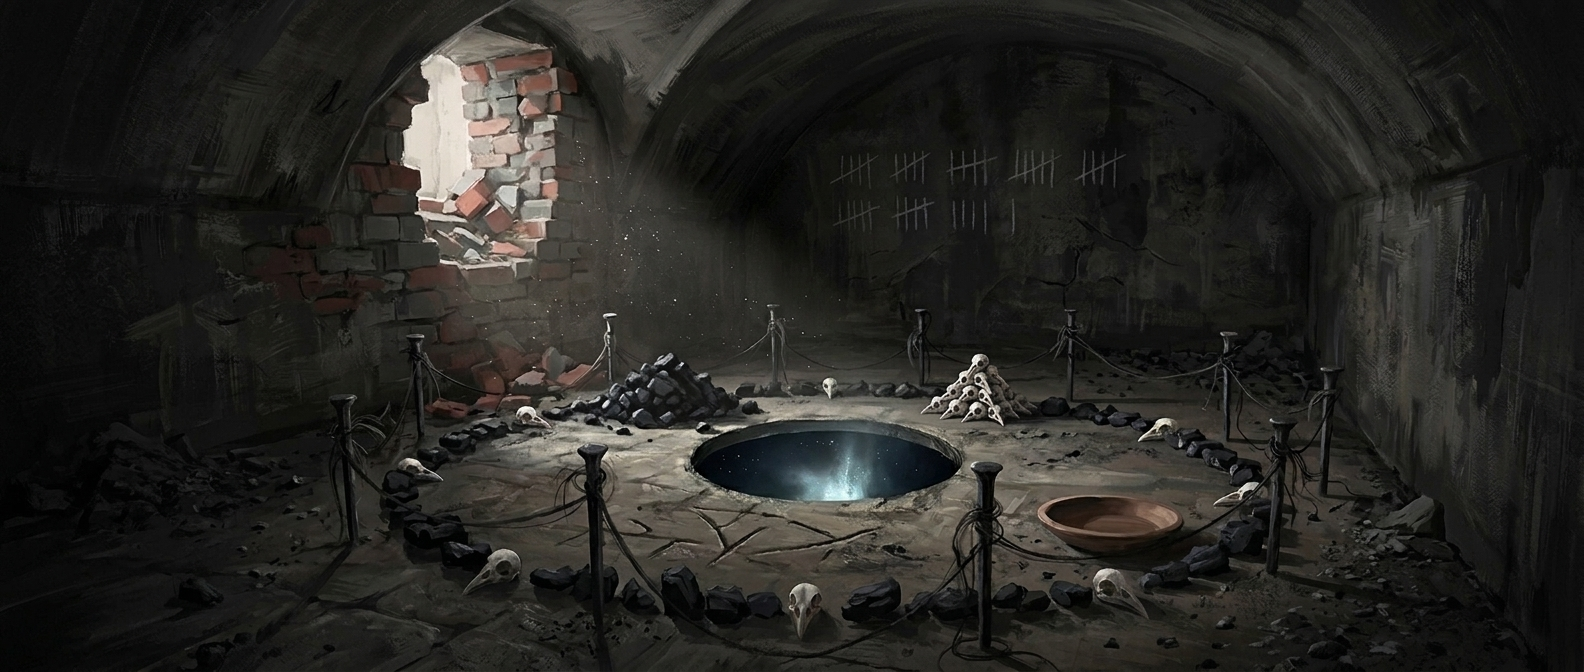
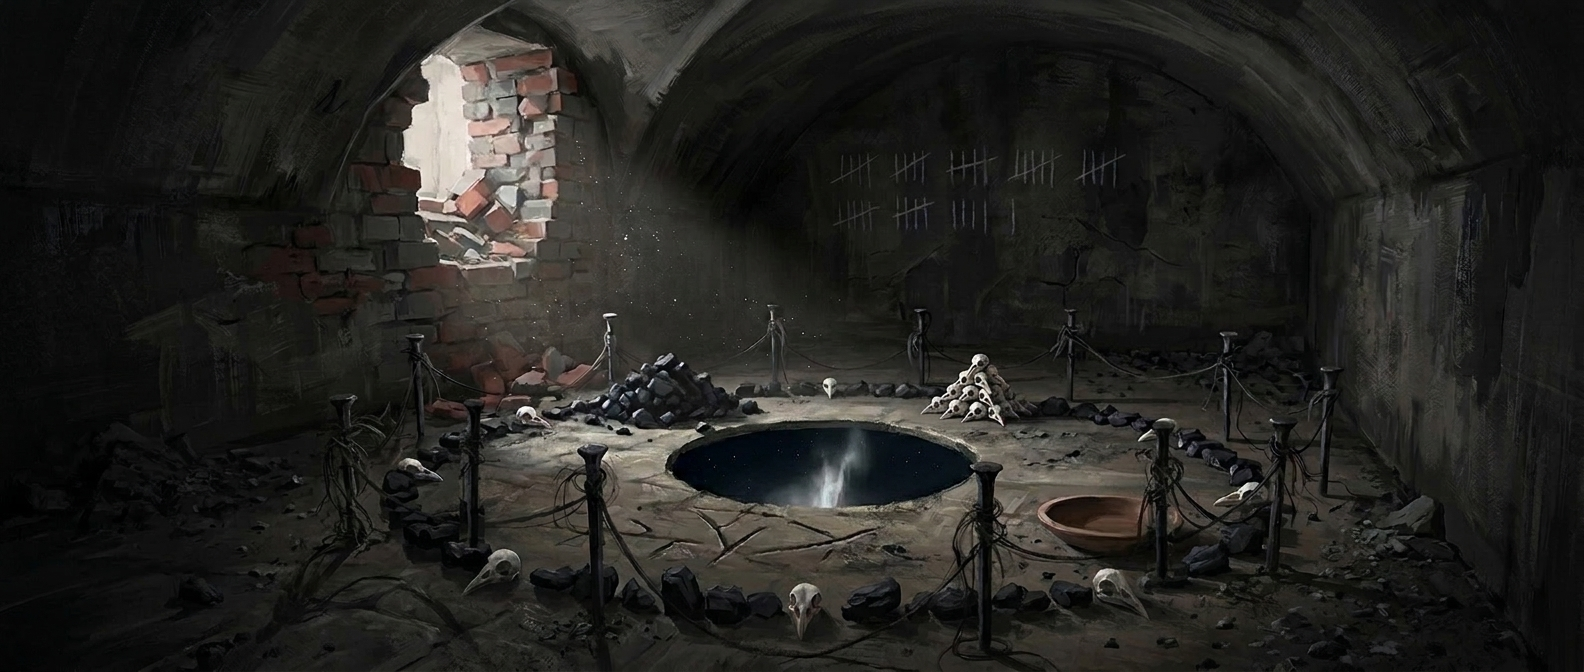
Ritualraum: genau dreizehn Nägel im Bild (Tag, Spuk, gebrochen), Nägel als unterarmlange Pflöcke beschrieben, neue Nahaufnahme ding-naegel, Tonschale wird ausgekippt statt umgestoßen

diff --git a/tools/kandidaten.js b/tools/kandidaten.js
@@ -268,6 +268,16 @@ window.KANDIDATEN = [
     "vorlage": null
   },
   {
+    "name": "ding-kalender_kraehe",
+    "titel": "Kalender der Krähe",
+    "prompt": "Kreidestriche auf einer rußigen, schwarzen Gewölbewand: Reihen von Strichen in Blöcken, daneben eine Kreideskizze eines Kreises mit vier kleinen Sonnenzeichen und Ziffern, darunter eine frischere, weißere Reihe einzelner Striche und ein ausgemalter Kreis, Taschenlampenlicht von der Seite – realistisches Foto eines echten Dokuments bzw. alten Fotos, Gebrauchsspuren, natürliches Licht, Schrift nur angedeutet und unleserlich",
+    "kandidaten": [
+      "ding-kalender_kraehe-1.jpg"
+    ],
+    "gewaehlt": "ding-kalender_kraehe.jpg",
+    "vorlage": null
+  },
+  {
     "name": "ding-kinderbuch",
     "titel": "Kinderbuch „Geheimschriften“",
     "prompt": "Altes Kinderbuch von 1898 mit Goldschnitt, aufgeschlagen auf einer Seite mit einem Kupferstich: Kinder halten ein Blatt über eine Kerzenflamme, auf dem braune Schrift erscheint, ein Eselsohr, am Rand eine zarte Bleistiftnotiz – realistisches Foto eines echten Dokuments bzw. alten Fotos, Gebrauchsspuren, natürliches Licht, Schrift nur angedeutet und unleserlich",
@@ -345,6 +355,16 @@ window.KANDIDATEN = [
       "ding-nachlass_karton-1.jpg"
     ],
     "gewaehlt": "ding-nachlass_karton.jpg",
+    "vorlage": null
+  },
+  {
+    "name": "ding-naegel",
+    "titel": "Dreizehn Nägel",
+    "prompt": "Nahaufnahme von drei, vier großen, grob geschmiedeten Eisenpflöcken (unterarmlang, daumendick, mit breitem Schmiedekopf) in einem Steinboden voller Kohlenstaub, um jeden ein einzelnes Haar oder ein Faden gewickelt (ein langes helles Haar, schwarzer Trauerflor, ein hellblauer Nähfaden, ein geblümter Stofffetzen), Taschenlampenlicht von der Seite – realistisches Foto eines echten Dokuments bzw. alten Fotos, Gebrauchsspuren, natürliches Licht, kein Text",
+    "kandidaten": [
+      "ding-naegel-1.jpg"
+    ],
+    "gewaehlt": "ding-naegel.jpg",
     "vorlage": null
   },
   {
@@ -435,6 +455,16 @@ window.KANDIDATEN = [
       "ding-ritzung-1.jpg"
     ],
     "gewaehlt": "ding-ritzung.jpg",
+    "vorlage": null
+  },
+  {
+    "name": "ding-salztopf",
+    "titel": "Salztopf",
+    "prompt": "Großer grauer Steinguttopf mit blauer Salzglasur auf einem Holzbord in einer alten Waschküche, randvoll mit grobem grauem Salz, daneben eine zerknitterte Papiertüte – realistisches Foto eines echten Dokuments bzw. alten Fotos, Gebrauchsspuren, natürliches Licht, in Blau auf dem Topf „SALZ“, sonst kein Text im Bild",
+    "kandidaten": [
+      "ding-salztopf-1.jpg"
+    ],
+    "gewaehlt": "ding-salztopf.jpg",
     "vorlage": null
   },
   {
@@ -565,6 +595,26 @@ window.KANDIDATEN = [
       "ding-vogelkiste-1.jpg"
     ],
     "gewaehlt": "ding-vogelkiste.jpg",
+    "vorlage": null
+  },
+  {
+    "name": "ding-vorschlaghammer",
+    "titel": "Vorschlaghammer",
+    "prompt": "Schwerer Vorschlaghammer mit dunklem Eschenstiel auf einer alten Werkbank, grauer Putzstaub am Kopf, daneben ein Stück Schneiderkreide – realistisches Foto eines echten Dokuments bzw. alten Fotos, Gebrauchsspuren, natürliches Licht, auf dem Stiel mit Kugelschreiber „H.-J. B.“, sonst kein Text im Bild",
+    "kandidaten": [
+      "ding-vorschlaghammer-1.jpg"
+    ],
+    "gewaehlt": "ding-vorschlaghammer.jpg",
+    "vorlage": null
+  },
+  {
+    "name": "ding-weinregale",
+    "titel": "Flasche „Für den Tag, an dem sie geht“",
+    "prompt": "Verstaubte Weinflasche quer vor anderen in einem Holzweinregal, um den Hals an einer Schnur ein kleines Pappschild mit schräger Handschrift, Kellerstaub – realistisches Foto eines echten Dokuments bzw. alten Fotos, Gebrauchsspuren, natürliches Licht, Schrift nur angedeutet und unleserlich",
+    "kandidaten": [
+      "ding-weinregale-1.jpg"
+    ],
+    "gewaehlt": "ding-weinregale.jpg",
     "vorlage": null
   },
   {
@@ -937,6 +987,36 @@ window.KANDIDATEN = [
     "vorlage": "raum-halle.jpg"
   },
   {
+    "name": "raum-heizungskeller",
+    "titel": "Heizungskeller",
+    "prompt": "Langer, niedriger Heizungskeller: ein orangefarbener Ölheizkessel aus den Siebzigern, ein mannshoher gelber Kunststoff-Öltank, quer über den Estrich eine gerade Fuge, an der Seite eine Werkbank mit Schraubstock, Lochwand und einem Vorschlaghammer, die Wand hinter dem Tank auffallend glatt und frisch hell verputzt, Lichtkegel einer Taschenlampe als einzige Lichtquelle – halbrealistische digitale Ölmalerei, dunkle Gothic-Horror-Atmosphäre, sichtbare Pinselstriche, gedämpfte Farben, starke Licht-Schatten-Kontraste, kein Text",
+    "kandidaten": [
+      "raum-heizungskeller-1.jpg"
+    ],
+    "gewaehlt": "raum-heizungskeller.jpg",
+    "vorlage": null
+  },
+  {
+    "name": "raum-heizungskeller-durch",
+    "titel": "Heizungskeller – durch",
+    "prompt": "Bearbeite das beigefügte Bild: Gleiche Szene, gleicher Bildausschnitt, in der verputzten Wand klafft ein Loch, gut einen Meter breit, mit zersplitterten Ziegeln am Rand, dahinter Schwärze, auf dem Boden Ziegelbrocken und Putzstaub, neben dem Loch ein Kreidekreuz. Perspektive, Bildaufbau und Malstil exakt beibehalten, sonst nichts verändern. Stil: halbrealistische digitale Ölmalerei, dunkle Gothic-Horror-Atmosphäre, sichtbare Pinselstriche, gedämpfte Farben, starke Licht-Schatten-Kontraste, kein Text",
+    "kandidaten": [
+      "raum-heizungskeller-durch-1.jpg"
+    ],
+    "gewaehlt": "raum-heizungskeller-durch.jpg",
+    "vorlage": "raum-heizungskeller.jpg"
+  },
+  {
+    "name": "raum-heizungskeller-spuk",
+    "titel": "Heizungskeller – spuk",
+    "prompt": "Bearbeite das beigefügte Bild: Gleiche Szene, gleicher Bildausschnitt, im frischen Putz der Wand hinter dem Tank ein langer, frischer Kratzer, feiner Putzstaub rieselt, als kratze jemand von der anderen Seite. Perspektive, Bildaufbau und Malstil exakt beibehalten, sonst nichts verändern. Stil: halbrealistische digitale Ölmalerei, dunkle Gothic-Horror-Atmosphäre, sichtbare Pinselstriche, gedämpfte Farben, starke Licht-Schatten-Kontraste, kein Text",
+    "kandidaten": [
+      "raum-heizungskeller-spuk-1.jpg"
+    ],
+    "gewaehlt": "raum-heizungskeller-spuk.jpg",
+    "vorlage": "raum-heizungskeller.jpg"
+  },
+  {
     "name": "raum-hinterdiele",
     "titel": "Hinterdiele",
     "prompt": "Schmale Hinterdiele einer Jugendstilvilla, schwarz-weiße Steinfliesen wie ein Schachbrett, leere Garderobenhaken bis auf einen langen schwarzen altmodischen Damenmantel, im Hintergrund eine Hintertür mit kleinem Fenster, quer mit drei rohen Brettern vernagelt, links eine schmale Holztür mit schwerem rostigem Eisenriegel, über dem Türspalt rotes Siegelwachs – halbrealistische digitale Ölmalerei, dunkle Gothic-Horror-Atmosphäre, sichtbare Pinselstriche, gedämpfte Farben, starke Licht-Schatten-Kontraste, kein Text",
@@ -965,6 +1045,26 @@ window.KANDIDATEN = [
     ],
     "gewaehlt": "raum-hinterdiele-tuer-offen.jpg",
     "vorlage": "raum-hinterdiele.jpg"
+  },
+  {
+    "name": "raum-kellerflur",
+    "titel": "Kellerflur",
+    "prompt": "Niedriger, gewölbter Kellergang aus feuchtem Bruchstein, die Wände glänzen vor Nässe, eine steile schmale Steintreppe ohne Geländer führt hinauf zu einer niedrigen Brettertür, daneben ein grauer Sicherungskasten aus den Siebzigern mit sauber abgeschnittenen Kabeln, in der Seitenwand ein vermauerter Türbogen aus helleren Ziegeln, Lichtkegel einer Taschenlampe als einzige Lichtquelle – halbrealistische digitale Ölmalerei, dunkle Gothic-Horror-Atmosphäre, sichtbare Pinselstriche, gedämpfte Farben, starke Licht-Schatten-Kontraste, kein Text",
+    "kandidaten": [
+      "raum-kellerflur-1.jpg"
+    ],
+    "gewaehlt": "raum-kellerflur.jpg",
+    "vorlage": null
+  },
+  {
+    "name": "raum-kellerflur-spuk",
+    "titel": "Kellerflur – spuk",
+    "prompt": "Bearbeite das beigefügte Bild: Gleiche Szene, gleicher Bildausschnitt, auf der vorletzten Stufe der Kellertreppe stehen zwei nackte, sehr blasse Frauenfüße, der Rest der Gestalt verschwindet im Dunkel. Perspektive, Bildaufbau und Malstil exakt beibehalten, sonst nichts verändern. Stil: halbrealistische digitale Ölmalerei, dunkle Gothic-Horror-Atmosphäre, sichtbare Pinselstriche, gedämpfte Farben, starke Licht-Schatten-Kontraste, kein Text",
+    "kandidaten": [
+      "raum-kellerflur-spuk-1.jpg"
+    ],
+    "gewaehlt": "raum-kellerflur-spuk.jpg",
+    "vorlage": "raum-kellerflur.jpg"
   },
   {
     "name": "raum-kinderzimmer",
@@ -1153,6 +1253,36 @@ window.KANDIDATEN = [
     "vorlage": null
   },
   {
+    "name": "raum-ritualraum",
+    "titel": "Gewölbe hinter der Wand (Ritualraum)",
+    "prompt": "Schmaler, sehr niedriger Gewölberaum ohne Fenster, schwarz von altem Kohlenstaub, auf dem Boden von Wand zu Wand ein Kreis aus Kohlestücken und winzigen weißen Vogelschädeln, in der Mitte eine runde, spiegelnd schwarze Scheibe im Boden, an vier Stellen des Kreises ein Kohlehaufen, eine kleine Pyramide aus Vogelschädeln, eine flache Tonschale und ein in den Stein geritztes fremdes Zeichen, rund um den Kreis dreizehn Schmiedenägel mit Haaren und Fäden, an der Wand Kreidestriche in Blöcken, Licht fällt nur durch ein Mauerloch mit zersplitterten Ziegeln – halbrealistische digitale Ölmalerei, dunkle Gothic-Horror-Atmosphäre, sichtbare Pinselstriche, gedämpfte Farben, starke Licht-Schatten-Kontraste, kein Text",
+    "kandidaten": [
+      "raum-ritualraum-1.jpg"
+    ],
+    "gewaehlt": "raum-ritualraum.jpg",
+    "vorlage": null
+  },
+  {
+    "name": "raum-ritualraum-gebrochen",
+    "titel": "Gewölbe hinter der Wand (Ritualraum) – gebrochen",
+    "prompt": "Bearbeite das beigefügte Bild: Gleiche Szene, gleicher Bildausschnitt, der Kreis ist zerstört: verstreute Kohle, umgestürzte Vogelschädel, eine umgekippte leere Schale, das Zeichen ausgekratzt, die Scheibe in der Mitte matt und grau wie Schiefer. Perspektive, Bildaufbau und Malstil exakt beibehalten, sonst nichts verändern. Stil: halbrealistische digitale Ölmalerei, dunkle Gothic-Horror-Atmosphäre, sichtbare Pinselstriche, gedämpfte Farben, starke Licht-Schatten-Kontraste, kein Text",
+    "kandidaten": [
+      "raum-ritualraum-gebrochen-1.jpg"
+    ],
+    "gewaehlt": "raum-ritualraum-gebrochen.jpg",
+    "vorlage": "raum-ritualraum.jpg"
+  },
+  {
+    "name": "raum-ritualraum-spuk",
+    "titel": "Gewölbe hinter der Wand (Ritualraum) – spuk",
+    "prompt": "Bearbeite das beigefügte Bild: Gleiche Szene, gleicher Bildausschnitt, die schwarze Scheibe zeigt einen tiefen, sternlosen Nachthimmel, tief unten darin steigt etwas Helles herauf. Perspektive, Bildaufbau und Malstil exakt beibehalten, sonst nichts verändern. Stil: halbrealistische digitale Ölmalerei, dunkle Gothic-Horror-Atmosphäre, sichtbare Pinselstriche, gedämpfte Farben, starke Licht-Schatten-Kontraste, kein Text",
+    "kandidaten": [
+      "raum-ritualraum-spuk-1.jpg"
+    ],
+    "gewaehlt": "raum-ritualraum-spuk.jpg",
+    "vorlage": "raum-ritualraum.jpg"
+  },
+  {
     "name": "raum-salon",
     "titel": "Salon",
     "prompt": "Salon einer Jugendstilvilla, hohe Fenster mit schweren Samtvorhängen, Kamin aus grünem Marmor mit geschnitztem Eichensims und kleiner Messingplatte, zwei Sessel mit verblichenem Rosenmuster, mitten im Raum ein schwarzer Flügel halb unter einem Tuch mit aufgeschlagenem Notenheft, runder Turmerker mit Fensterbank und Kissen – halbrealistische digitale Ölmalerei, dunkle Gothic-Horror-Atmosphäre, sichtbare Pinselstriche, gedämpfte Farben, starke Licht-Schatten-Kontraste, kein Text",
@@ -1303,6 +1433,26 @@ window.KANDIDATEN = [
     "vorlage": "raum-turmerker.jpg"
   },
   {
+    "name": "raum-vorratskeller",
+    "titel": "Vorratskeller",
+    "prompt": "Gewölbter Vorratskeller, Holzregale bis unter die Decke voller alter Einmachgläser mit vergilbten handgeschriebenen Etiketten, eine leere Lattenkiste mit langen bleichen Kartoffelkeimen, oben ein kleines vergittertes Kellerfenster zu einem Lichtschacht voller nasser Blätter, Lichtkegel einer Taschenlampe als einzige Lichtquelle – halbrealistische digitale Ölmalerei, dunkle Gothic-Horror-Atmosphäre, sichtbare Pinselstriche, gedämpfte Farben, starke Licht-Schatten-Kontraste, kein Text",
+    "kandidaten": [
+      "raum-vorratskeller-1.jpg"
+    ],
+    "gewaehlt": "raum-vorratskeller.jpg",
+    "vorlage": null
+  },
+  {
+    "name": "raum-vorratskeller-spuk",
+    "titel": "Vorratskeller – spuk",
+    "prompt": "Bearbeite das beigefügte Bild: Gleiche Szene, gleicher Bildausschnitt, alle Etiketten der Einmachgläser tragen dieselbe frische, dunkle Handschrift, ein Glas ohne Etikett mit etwas Dunklem, Gefiedertem darin steht vorn im Licht. Perspektive, Bildaufbau und Malstil exakt beibehalten, sonst nichts verändern. Stil: halbrealistische digitale Ölmalerei, dunkle Gothic-Horror-Atmosphäre, sichtbare Pinselstriche, gedämpfte Farben, starke Licht-Schatten-Kontraste, kein Text",
+    "kandidaten": [
+      "raum-vorratskeller-spuk-1.jpg"
+    ],
+    "gewaehlt": "raum-vorratskeller-spuk.jpg",
+    "vorlage": "raum-vorratskeller.jpg"
+  },
+  {
     "name": "raum-waescheboden",
     "titel": "Wäscheboden",
     "prompt": "Trockenboden unter dem Dach, Wäscheleinen kreuz und quer unter die Sparren gespannt, daran alte graue, steife Laken, die sich leicht bauschen, in einer Ecke ein Weidenkorb mit Holzklammern, staubiges graues Licht – halbrealistische digitale Ölmalerei, dunkle Gothic-Horror-Atmosphäre, sichtbare Pinselstriche, gedämpfte Farben, starke Licht-Schatten-Kontraste, kein Text",
@@ -1361,6 +1511,46 @@ window.KANDIDATEN = [
     ],
     "gewaehlt": "raum-waeschekammer-spuk.jpg",
     "vorlage": "raum-waeschekammer.jpg"
+  },
+  {
+    "name": "raum-waschkueche",
+    "titel": "Waschküche",
+    "prompt": "Alte Waschküche um 1900 im Keller: eingemauerter Kupferwaschkessel auf einem Ziegelsockel mit Feuerloch, gusseiserne Wäschemangel mit Holzwalzen und Kurbel, verbeulte Zinkwannen und Waschbretter an Haken, ein steinerner Ausguss, darüber ein kleiner, trüber, schwarz angelaufener Spiegel, auf einem Bord ein großer grauer Steinguttopf mit blauer Glasur, Lichtkegel einer Taschenlampe als einzige Lichtquelle – halbrealistische digitale Ölmalerei, dunkle Gothic-Horror-Atmosphäre, sichtbare Pinselstriche, gedämpfte Farben, starke Licht-Schatten-Kontraste, kein Text",
+    "kandidaten": [
+      "raum-waschkueche-1.jpg"
+    ],
+    "gewaehlt": "raum-waschkueche.jpg",
+    "vorlage": null
+  },
+  {
+    "name": "raum-waschkueche-spuk",
+    "titel": "Waschküche – spuk",
+    "prompt": "Bearbeite das beigefügte Bild: Gleiche Szene, gleicher Bildausschnitt, im trüben Spiegel über dem Ausguss presst sich von innen eine Männerhand mit aufgeschlagenen Knöcheln, schwarz von Kohlenstaub, gegen das Glas. Perspektive, Bildaufbau und Malstil exakt beibehalten, sonst nichts verändern. Stil: halbrealistische digitale Ölmalerei, dunkle Gothic-Horror-Atmosphäre, sichtbare Pinselstriche, gedämpfte Farben, starke Licht-Schatten-Kontraste, kein Text",
+    "kandidaten": [
+      "raum-waschkueche-spuk-1.jpg"
+    ],
+    "gewaehlt": "raum-waschkueche-spuk.jpg",
+    "vorlage": "raum-waschkueche.jpg"
+  },
+  {
+    "name": "raum-weinkeller",
+    "titel": "Weinkeller",
+    "prompt": "Langes Tonnengewölbe aus Backstein, an beiden Seiten Weinregale aus Holz, die meisten Fächer leer, wenige Flaschen unter dicker Staubschicht, unter dem Gewölbescheitel ein altes gelb gestrichenes Eisenrohr mit Rostblüten, zwei schmale vergitterte, blinde Kellerfenster, Lichtkegel einer Taschenlampe als einzige Lichtquelle, der Fluchtpunkt verschwindet im Dunkel – halbrealistische digitale Ölmalerei, dunkle Gothic-Horror-Atmosphäre, sichtbare Pinselstriche, gedämpfte Farben, starke Licht-Schatten-Kontraste, kein Text",
+    "kandidaten": [
+      "raum-weinkeller-1.jpg"
+    ],
+    "gewaehlt": "raum-weinkeller.jpg",
+    "vorlage": null
+  },
+  {
+    "name": "raum-weinkeller-spuk",
+    "titel": "Weinkeller – spuk",
+    "prompt": "Bearbeite das beigefügte Bild: Gleiche Szene, gleicher Bildausschnitt, unter dem Gewölbe steht schemenhaft ein Mann im weißen Arztkittel mit runder Brille, eine Hand höflich erhoben, um das Rohr ein grünlicher Schimmer. Perspektive, Bildaufbau und Malstil exakt beibehalten, sonst nichts verändern. Stil: halbrealistische digitale Ölmalerei, dunkle Gothic-Horror-Atmosphäre, sichtbare Pinselstriche, gedämpfte Farben, starke Licht-Schatten-Kontraste, kein Text",
+    "kandidaten": [
+      "raum-weinkeller-spuk-1.jpg"
+    ],
+    "gewaehlt": "raum-weinkeller-spuk.jpg",
+    "vorlage": "raum-weinkeller.jpg"
   },
   {
     "name": "raum-wintergarten",

diff --git a/js/content/keller.js b/js/content/keller.js
@@ -530,8 +530,8 @@
         t += 'In der Mitte des Bodens ist eine runde Scheibe eingelassen, grau und matt wie Schiefer. Der Kreis um sie ist zerstört: verstreute Kohle, umgestürzte Knochen, eine leere Schale, ein ausgekratztes Wort. Die dreizehn Nägel ringsum stecken noch im Boden.';
       } else {
         t += 'Auf dem Boden, von Wand zu Wand, liegt ein Kreis aus Kohlestücken und winzigen weißen Vogelschädeln. In seiner Mitte ist eine runde Scheibe in den Boden eingelassen, schwarz und glatt wie Wasser, in der sich dein Licht spiegelt. ' +
-          'An vier Stellen ist der Kreis anders: Im <b>Osten</b>, zum Durchbruch hin, liegt ' + (api.eig('kreis_kohle', 'entfernt') ? 'verstreute Kohle' : 'ein Haufen Kohle') + '. Im <b>Süden</b> ' + (api.eig('kreis_knochen', 'entfernt') ? 'liegen umgestürzte Vogelschädel' : 'sind Vogelschädel zu einer kleinen Pyramide geschichtet') + '. Im <b>Westen</b> steht ' + (api.eig('kreis_blut', 'entfernt') ? 'eine umgekippte Tonschale' : 'eine Tonschale mit etwas Schwarzem, Eingetrocknetem') + '. Im <b>Norden</b> ' + (api.eig('kreis_name', 'entfernt') ? 'ist ein Wort aus dem Boden gekratzt' : 'ist ein Wort in den Boden geritzt') + '. ' +
-          'Rund um den Kreis stecken dreizehn Nägel im Boden.';
+          'An vier Stellen ist der Kreis anders: Im <b>Osten</b>, zum Durchbruch hin, liegt ' + (api.eig('kreis_kohle', 'entfernt') ? 'verstreute Kohle' : 'ein Haufen Kohle') + '. Im <b>Süden</b> ' + (api.eig('kreis_knochen', 'entfernt') ? 'liegen umgestürzte Vogelschädel' : 'sind Vogelschädel zu einer kleinen Pyramide geschichtet') + '. Im <b>Westen</b> steht ' + (api.eig('kreis_blut', 'entfernt') ? 'eine leere Tonschale' : 'eine Tonschale mit etwas Schwarzem, Eingetrocknetem') + '. Im <b>Norden</b> ' + (api.eig('kreis_name', 'entfernt') ? 'ist ein Wort aus dem Boden gekratzt' : 'ist ein Wort in den Boden geritzt') + '. ' +
+          'Rund um den Kreis stecken dreizehn Nägel im Boden – jeder so lang wie ein Unterarm, eher Pflöcke als Nägel.';
       }
       return t + ' An der Wand über dem Kreis: Kreidestriche, Reihe um Reihe.';
     },
@@ -558,7 +558,7 @@
   function kreisSchritt(api) { return ORDNUNG.filter(function (id) { return api.eig(id, 'entfernt'); }).length; }
   var WEG_TEXT = {
     kreis_name: 'Du kratzt mit dem Fingernagel über die Rillen, immer wieder, bis die Haut aufreißt. Es ist, als kratze jemand von der anderen Seite zurück. Dann ist das Wort nur noch ein Kratzer im Stein, und das Summen in deinen Ohren bricht ab, mitten im Ton.',
-    kreis_blut: 'Du stößt die Tonschale um. Was darin eingetrocknet war, ist nicht mehr trocken: Es läuft schwarz über den Boden, auf den Kreis zu – und versickert im Kohlenstaub, eine Handbreit vor der Linie.',
+    kreis_blut: 'Du kippst die Tonschale aus. Was darin eingetrocknet war, ist nicht mehr trocken: Es läuft schwarz über den Boden, auf den Kreis zu – und versickert im Kohlenstaub, eine Handbreit vor der Linie.',
     kreis_knochen: 'Du fegst die Vogelschädel mit dem Ärmel aus dem Kreis. Sie klappern über den Stein wie lose Zähne. Einer rollt zurück, bis an deinen Schuh. Du stößt ihn weg.'
   };
   function teilWeg(api, id, ctx) {
@@ -618,7 +618,7 @@
   });
   teil('kreis_blut', {
     nomen: 'Tonschale', genus: 'f', woerter: ['tonschale', 'schale', 'blut', 'blutschale', 'westen', 'westseite'],
-    beschreibung: function (api) { return gebrochen(api) || api.eig('kreis_blut', 'entfernt') ? 'Eine umgekippte Tonschale, leer.' : 'Im Westen des Kreises: eine flache Tonschale, darin eine schwarze, rissige Kruste. Blut, sehr alt. Aber der Rand ist feucht.'; },
+    beschreibung: function (api) { return gebrochen(api) || api.eig('kreis_blut', 'entfernt') ? 'Eine flache Tonschale, leer bis auf einen dunklen Rand.' : 'Im Westen des Kreises: eine flache Tonschale, darin eine schwarze, rissige Kruste. Blut, sehr alt. Aber der Rand ist feucht.'; },
     riechen: 'Eisen. Und Lavendel.'
   });
   teil('kreis_name', {
@@ -744,13 +744,13 @@
     ort: 'ritualraum', fest: 'Die Nägel stecken tief im Stein.', szenerie: true,
     beschreibung: function (api) {
       var l = lose(), fest = NAEGEL.filter(function (n) { return l.indexOf(n) < 0; });
-      var t = 'Dreizehn Schmiedenägel, rund um den Kreis in den Boden geschlagen, in gleichen Abständen wie die Ziffern einer Uhr, die eine Stunde zu viel hat. Dreizehn Tote. Dreizehn Gebundene. ';
+      var t = 'Dreizehn Schmiedenägel, jeder so lang wie ein Unterarm und dick wie ein Daumen – mehr Pflöcke als Nägel –, rund um den Kreis in den Stein getrieben, in gleichen Abständen wie die Ziffern einer Uhr, die eine Stunde zu viel hat. Dreizehn Tote. Dreizehn Gebundene. ';
       t += (l.length ? 'An den übrigen hängt' : 'An jedem hängt') + ' etwas: ' + HG.text.liste(fest.map(function (n) { return n[1]; }), 'und') + '.';
       if (!l.length) return t + ' Alle Nägel sitzen fest, als wären sie in den Stein gewachsen.';
       return (l.length === 1 ? 'Ein Nagel sitzt locker, und an ihm hängt nichts mehr – du weißt, wessen er war: ' : HG.text.gross(ZAHLWORT[l.length] || String(l.length)) + ' Nägel sitzen locker, und an ihnen hängt nichts mehr – du weißt, wessen sie waren: ') +
         HG.text.liste(l.map(function (n) { return HG.daten.seelen[n[0]].name; }), 'und') + '. Wer frei ist, den hält hier nichts mehr.<br><br>' + t;
     },
-    tasten: 'Kaltes Eisen. Einige Nägel sind warm, als hätte sie eben jemand angefasst.',
+    tasten: 'Kaltes, grob geschmiedetes Eisen, schwer wie ein Zaunpfahl. Einige Nägel sind warm, als hätte sie eben jemand angefasst.',
     hinweis: 'dreizehn_naegel',
     bei: {
       ziehen: function (api) { api.sage(lose().length ? 'Die lockeren Nägel lassen sich bewegen – aber herausziehen willst du sie nicht. Sie gehören jetzt niemandem mehr.' : 'Du ziehst an einem Nagel. Er sitzt fest wie eingewachsen. Und irgendwo im Haus, weit oben, schreit jemand leise auf.'); return true; },
@@ -793,7 +793,7 @@
   });
   HG.hinweis('dreizehn_naegel', {
     titel: 'Dreizehn Nägel', strang: 'D',
-    text: 'Hinter der Wand im Keller, rund um den Kreis der Pflegerin: dreizehn Nägel, an jedem ein Haar oder ein Faden. Dreizehn Tote, hier unten gebunden. Wer bekehrt ist, dessen Nagel sitzt locker.',
+    text: 'Hinter der Wand im Keller, rund um den Kreis der Pflegerin: dreizehn Nägel, lang wie Pflöcke, an jedem ein Haar oder ein Faden. Dreizehn Tote, hier unten gebunden. Wer bekehrt ist, dessen Nagel sitzt locker.',
     stichworte: ['naegel', 'nagel', 'dreizehn', 'tote', 'kreis']
   });
   HG.hinweis('kalender_kraehe', {
